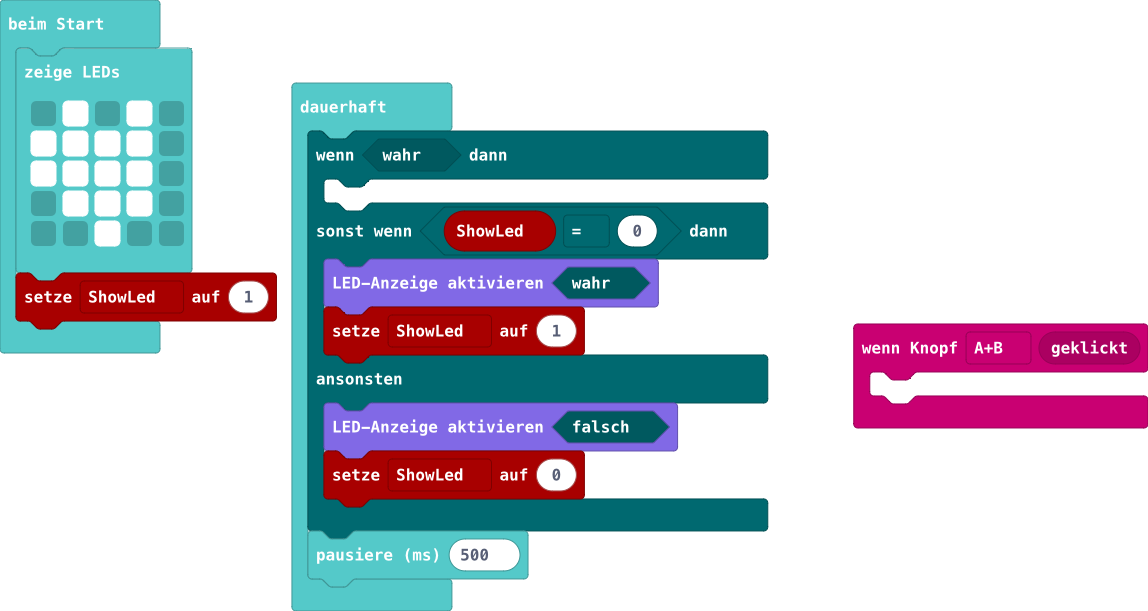
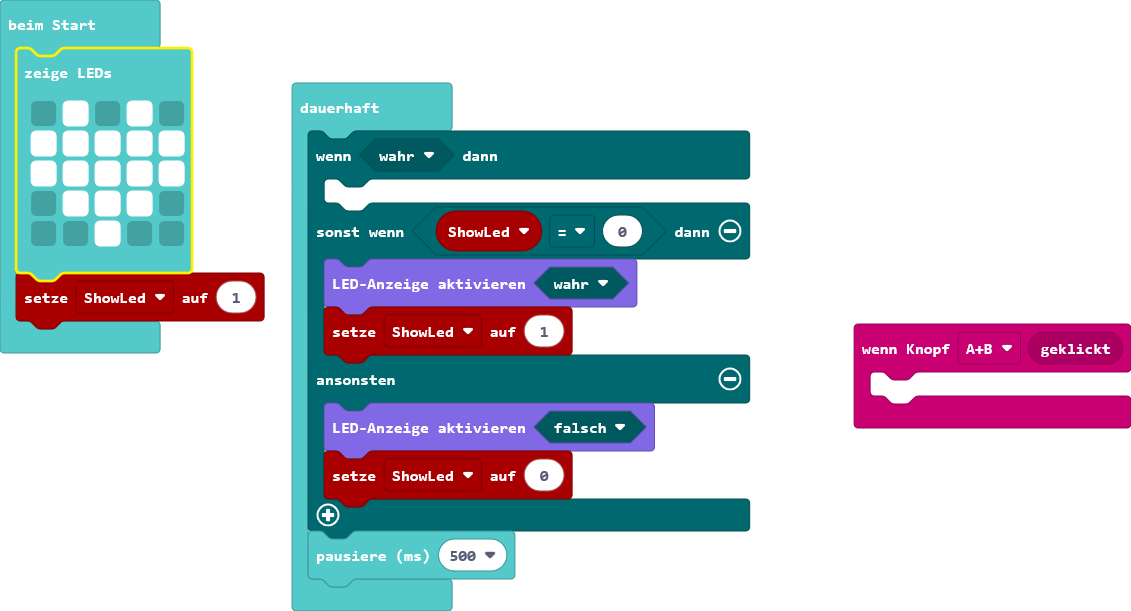
Aktualisiere main.blocks, main.ts

diff --git a/main.ts b/main.ts
@@ -3,8 +3,8 @@ input.onButtonEvent(Button.AB, input.buttonEventClick(), function () {
 })
 basic.showLeds(`
     . # . # .
-    # # # # .
-    # # # # .
+    # # # # #
+    # # # # #
     . # # # .
     . . # . .
     `)
